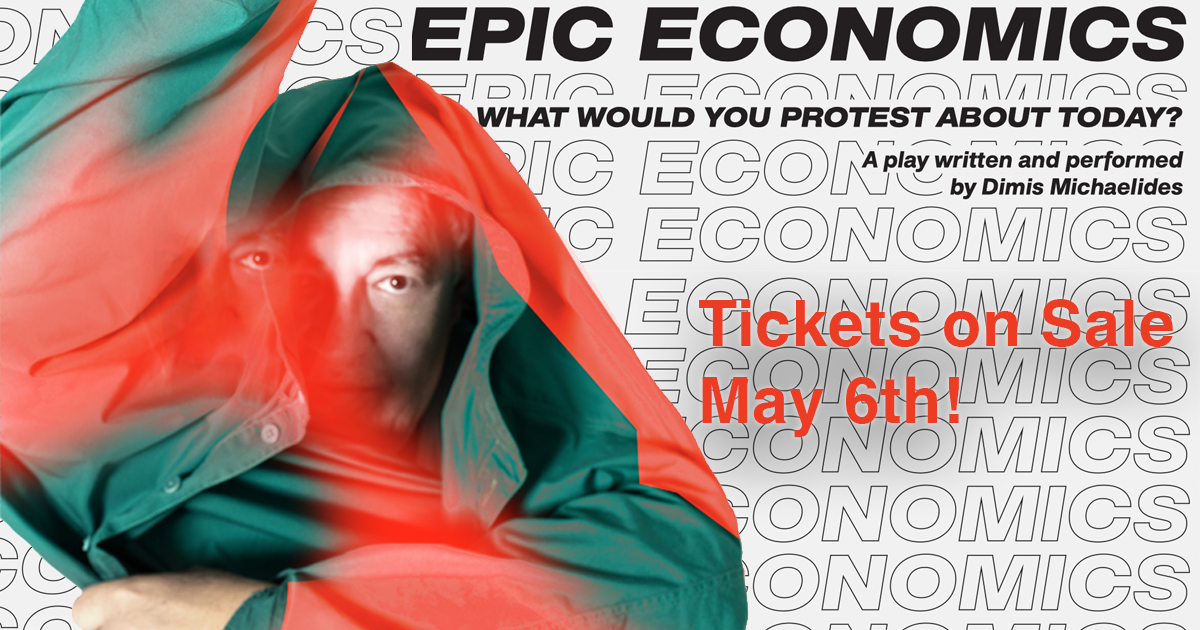
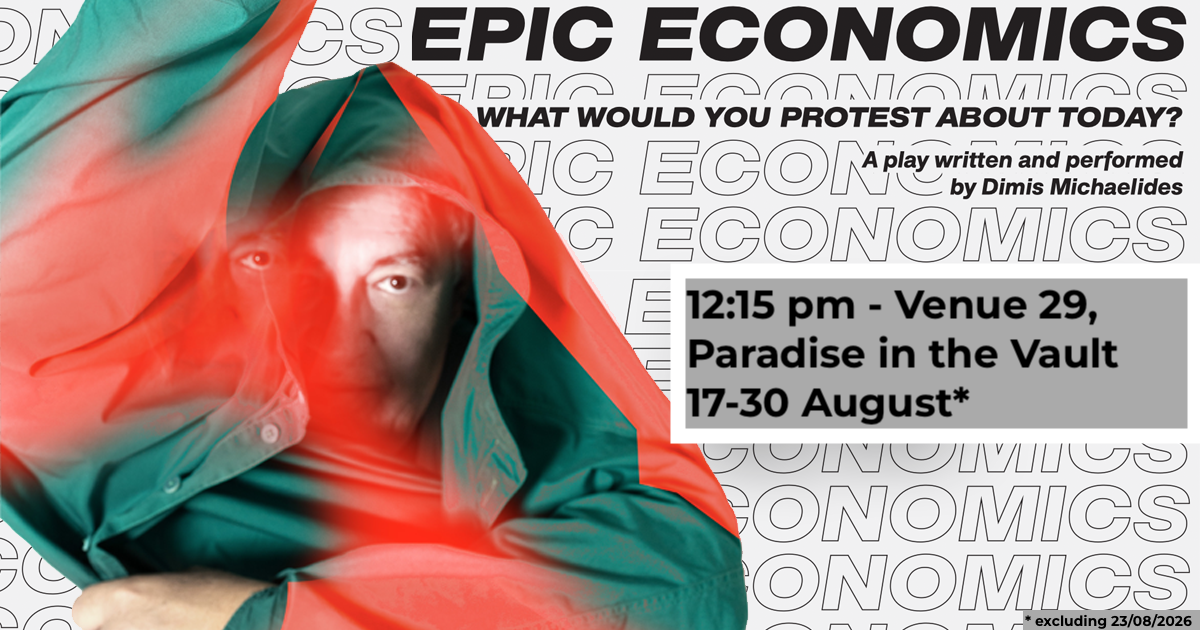
updates the og image with dates

Changed region(s): [[0.555, 0.4222, 1.0, 0.7238], [0.8325, 0.9651, 1.0, 1.0]]

diff --git a/src/pages/Contact.css b/src/pages/Contact.css
@@ -40,14 +40,21 @@
   margin: 0 auto;
 }
 
-/* Main Container — vertical stack */
+/* Main Container — two-column layout on desktop */
 .contact-container {
-  max-width: 700px;
+  max-width: 1080px;
   margin: 0 auto;
   padding: 4rem 2rem;
-  display: flex;
-  flex-direction: column;
+  display: grid;
+  grid-template-columns: 1fr 1.6fr;
   gap: 3rem;
+  align-items: start;
+}
+
+/* Sticky contact info sidebar */
+.contact-info-section {
+  position: sticky;
+  top: 7rem;
 }
 
 /* --------------------------------------------------------------------
@@ -208,10 +215,23 @@
 .contact-form {
   position: relative;
   z-index: 2;
+  display: grid;
+  grid-template-columns: 1fr 1fr;
+  gap: var(--space-lg);
 }
 
 .form-group {
-  margin-bottom: 1.5rem;
+  margin-bottom: 0;
+}
+
+.form-group:nth-child(1),
+.form-group:nth-child(2) {
+  grid-column: span 1;
+}
+
+.form-group:nth-child(3),
+.form-group:nth-child(4) {
+  grid-column: 1 / -1;
 }
 
 .form-group label {
@@ -257,6 +277,8 @@
 
 /* Submit Button */
 .submit-btn {
+  grid-column: 1 / -1;
+  justify-self: start;
   width: auto;
   min-width: 200px;
   padding: 0.75rem 2rem;
@@ -354,8 +376,10 @@
    -------------------------------------------------------------------- */
 
 .team-bios {
+  grid-column: 1 / -1;
   padding: var(--space-4xl) var(--space-xl);
   background-color: var(--color-bg-alt);
+  border-radius: var(--radius-xl);
 }
 
 .team-bios h2 {
@@ -365,8 +389,8 @@
 }
 
 .team-bios .bio-grid {
-  display: flex;
-  flex-direction: column;
+  display: grid;
+  grid-template-columns: repeat(3, 1fr);
   gap: var(--space-xl);
   max-width: 1200px;
   margin: 0 auto;
@@ -414,6 +438,21 @@
    Responsive
    ========================================================================== */
 
+@media (max-width: 900px) {
+  .contact-container {
+    grid-template-columns: 1fr;
+    gap: 2.5rem;
+  }
+
+  .contact-info-section {
+    position: static;
+  }
+
+  .team-bios .bio-grid {
+    grid-template-columns: 1fr;
+  }
+}
+
 @media (max-width: 768px) {
   .contact-page {
     padding-top: 80px;
@@ -449,6 +488,23 @@
 
   .team-bios {
     padding: var(--space-2xl) var(--space-lg);
+  }
+}
+
+@media (max-width: 560px) {
+  .contact-form {
+    grid-template-columns: 1fr;
+  }
+
+  .form-group:nth-child(1),
+  .form-group:nth-child(2),
+  .form-group:nth-child(3),
+  .form-group:nth-child(4) {
+    grid-column: 1;
+  }
+
+  .submit-btn {
+    justify-self: stretch;
   }
 }
 

diff --git a/src/components/CookieConsent.css b/src/components/CookieConsent.css
@@ -79,15 +79,41 @@
   outline-offset: 3px;
 }
 
-@media (max-width: 480px) {
+@media (max-width: 640px) {
   .cookie-consent {
     padding: var(--space-md) var(--space-lg);
+    padding-bottom: calc(var(--space-md) + env(safe-area-inset-bottom, 0px));
     flex-direction: column;
     align-items: stretch;
     text-align: center;
+    gap: var(--space-md);
+  }
+
+  .cookie-consent__text {
+    flex: none;
   }
 
   .cookie-consent__actions {
+    width: 100%;
     justify-content: center;
+    flex-wrap: wrap;
+  }
+
+  .cookie-consent__button {
+    flex: 1 1 140px;
+    max-width: 100%;
+    padding: 0.75em 1em;
+    white-space: nowrap;
+  }
+}
+
+@media (max-width: 360px) {
+  .cookie-consent__actions {
+    flex-direction: column;
+  }
+
+  .cookie-consent__button {
+    flex: none;
+    width: 100%;
   }
 }
